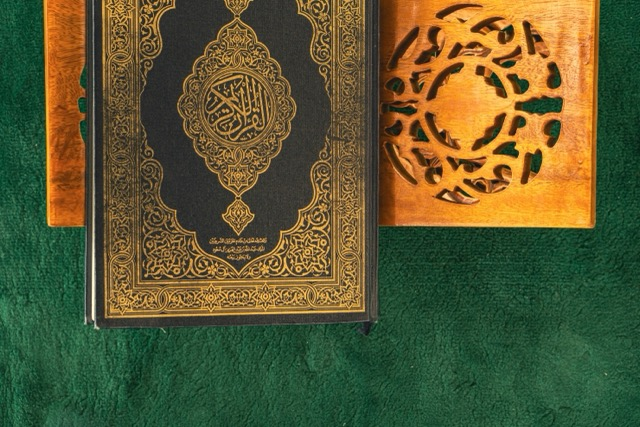
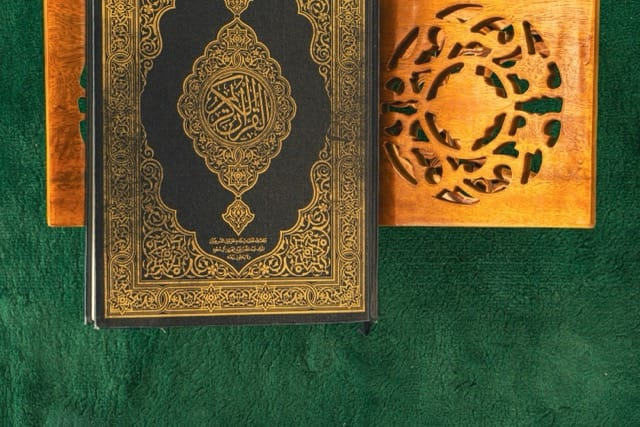
perf: compress category images (5.5MB → 476KB, 91% reduction)

diff --git a/scripts/compress-images.js b/scripts/compress-images.js
@@ -1,0 +1,68 @@
+const sharp = require('sharp');
+const fs = require('fs');
+const path = require('path');
+
+const categoriesDir = path.join(__dirname, '../public/categories');
+const backupDir = path.join(__dirname, '../public/categories-backup');
+
+// Create backup directory
+if (!fs.existsSync(backupDir)) {
+    fs.mkdirSync(backupDir, { recursive: true });
+}
+
+async function compressImages() {
+    const files = fs.readdirSync(categoriesDir);
+
+    console.log('🖼  Starting image compression...\n');
+
+    for (const file of files) {
+        if (file === '.DS_Store') continue;
+
+        const inputPath = path.join(categoriesDir, file);
+        const backupPath = path.join(backupDir, file);
+        const stat = fs.statSync(inputPath);
+
+        if (!stat.isFile()) continue;
+
+        try {
+            // Backup original
+            fs.copyFileSync(inputPath, backupPath);
+
+            const originalSize = (stat.size / 1024).toFixed(2);
+
+            // Compress image
+            // - Resize to max width 800px (maintain aspect ratio)
+            // - Quality 80%
+            // - Progressive JPEG/PNG
+            await sharp(inputPath)
+                .resize(800, null, {
+                    withoutEnlargement: true,
+                    fit: 'inside'
+                })
+                .jpeg({
+                    quality: 80,
+                    progressive: true,
+                    mozjpeg: true
+                })
+                .toFile(inputPath + '.tmp');
+
+            // Replace original with compressed
+            fs.renameSync(inputPath + '.tmp', inputPath);
+
+            const newStat = fs.statSync(inputPath);
+            const newSize = (newStat.size / 1024).toFixed(2);
+            const savings = ((1 - newStat.size / stat.size) * 100).toFixed(1);
+
+            console.log(`✓ ${file}`);
+            console.log(`  ${originalSize} KB → ${newSize} KB (${savings}% smaller)\n`);
+
+        } catch (error) {
+            console.error(`✗ Failed to compress ${file}:`, error.message);
+        }
+    }
+
+    console.log('✅ Compression complete!');
+    console.log(`📦 Originals backed up to: ${backupDir}`);
+}
+
+compressImages().catch(console.error);
